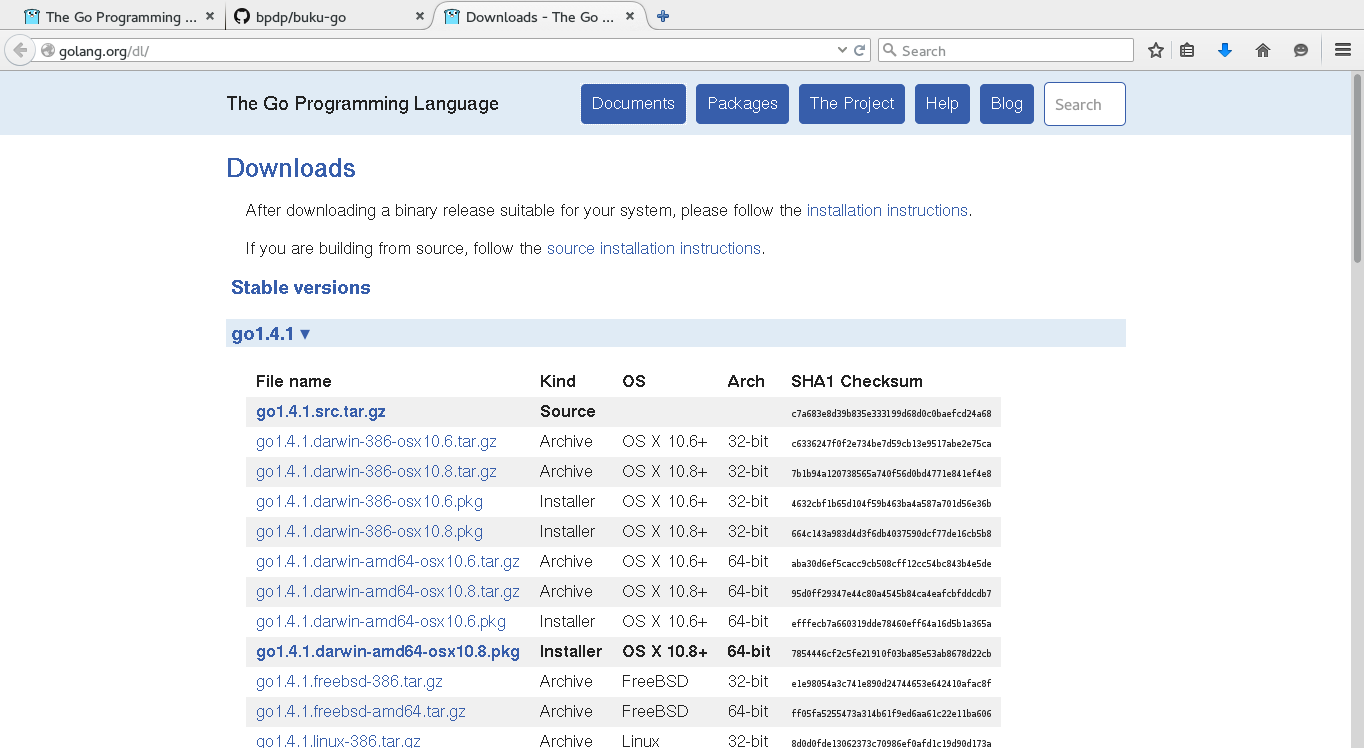
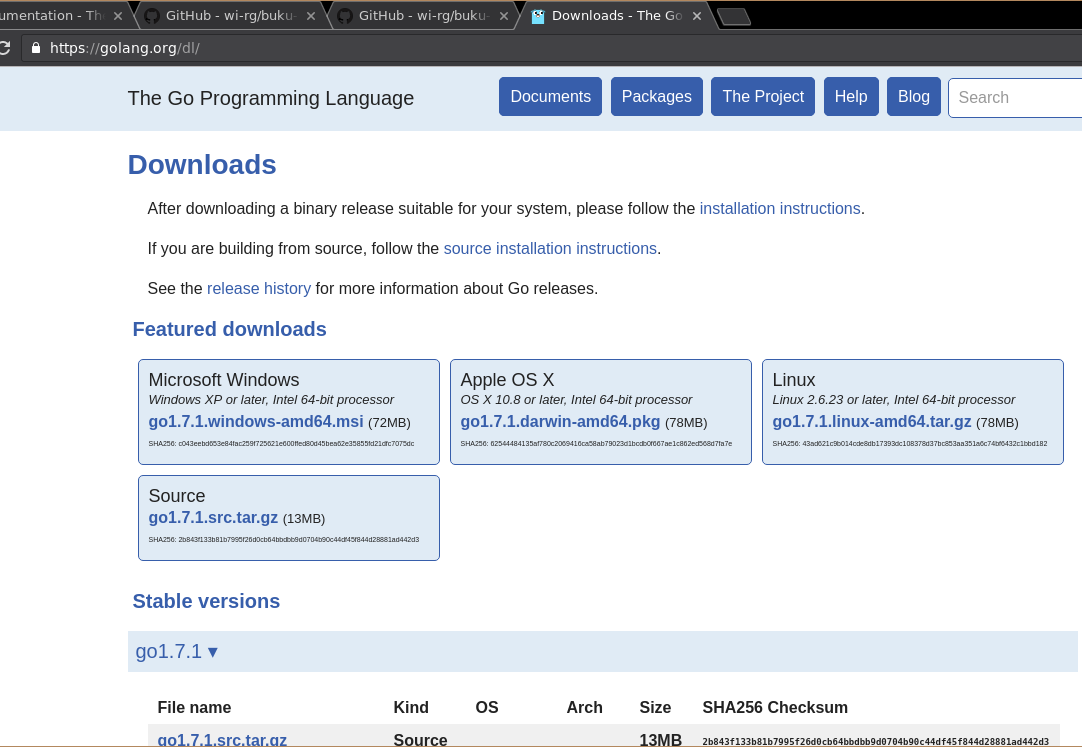
Diubah ke versi 1.7.1

diff --git a/bab-01.md b/bab-01.md
@@ -14,7 +14,7 @@ Go didistribusikan dengan menggunakan lisensi modifikasi dari BSD. Lisensi lengk
 * boleh memberikan garansi
 * tidak boleh menggunakan merk dagang Go
 * tanpa jaminan dan jika terjadi kerusakan terkait penggunaan software ini maka pemberi lisensi tidak bisa dituntut
-jika mendistribusikan harus mengikutsertakan pemberitahuan hak cipta.
+* jika mendistribusikan harus mengikutsertakan pemberitahuan hak cipta.
 
 ## Instalasi Go
 
@@ -24,74 +24,92 @@ Go tersedia pada berbagai platform. Proyek Go sendiri secara resmi mendukung pla
 
 ![Repository downloads Go](images/download-go.png)
 
-Dengan dukungan tersebut, Proyek Go akan menerima laporan `bugs` terkait dengan distribusi pada berbagai platform tersebut. Meski demikian, bukan berarti platform-platform lain tidak bisa menggunakan Go karena distribusi dalam bentuk kode sumber tersedia dan telah berhasil dikompilasi ke berbagai platform: NetBSD, OpenBSD, DragonFlyBSD, dan lain-lain. Informasi mengenai platform-platform yang mungkin bisa digunakan oleh Go bisa diperoleh di [Wiki](https://code.google.com/p/go-wiki/w/list).
+Dengan dukungan tersebut, Proyek Go akan menerima laporan `bugs` terkait dengan distribusi pada berbagai platform tersebut. Meski demikian, bukan berarti platform-platform lain tidak bisa menggunakan Go karena distribusi dalam bentuk kode sumber tersedia dan telah berhasil dikompilasi ke berbagai platform: NetBSD, OpenBSD, DragonFlyBSD, dan lain-lain. Informasi mengenai platform-platform yang mungkin bisa digunakan oleh Go bisa diperoleh di [Wiki](https://github.com/golang/go/wiki#platform-specific-information).
 
 ### Download dan Install Go
 
 ~~~
 Catatan:
 
-Go akan diinstall di direktori $HOME/software/go-dev-tools/go/goVERSI
+Go akan diinstall di direktori /opt/software/go-dev-tools/go/goVERSI
 
-VERSI = versi dari Go yang akan diinstall, misalnya go1.4.1
-Lokasi instalasi tersebut saya gunakan karena saya mempunyai lebih dari 1 versi Go, jika nanti ada versi lainnya, versi lain tersebut akan saya install (misal versi 1.5) di $HOME/software/go-dev-tools/go/go1.5
+VERSI = versi dari Go yang akan diinstall, misalnya go1.7.1
+Lokasi instalasi tersebut saya gunakan karena saya mempunyai lebih dari 1 versi Go, jika nanti ada versi lainnya, versi lain tersebut akan saya install (misal versi 1.6.3) di /opt/software/go-dev-tools/go/go1.6.3
 ~~~
 
-Meski mendukung banyak platform, di buku ini hanya akan dibahas penggunaan Go di platform Linux. Pada dasarnya peranti pengembang yang disediakan sama. Silahkan menyesuaikan dengan platform yang anda gunakan. Untuk instalasi berikut ini, ambil distribusi yang sesuai dengan platform di komputer anda. Untuk pembahasan ini, digunakan `go1.4.1.linux-386.tar.gz`. Setelah itu, ikuti langkah-langkah berikut:
+Meski mendukung banyak platform, di buku ini hanya akan dibahas penggunaan Go di platform Linux. Pada dasarnya peranti pengembang yang disediakan sama. Silahkan menyesuaikan dengan platform yang anda gunakan. Untuk instalasi berikut ini, ambil distribusi yang sesuai dengan platform di komputer anda. Untuk pembahasan ini, digunakan `go1.7.1.linux-amd64.tar.gz`. Setelah itu, ikuti langkah-langkah berikut:
 
 ~~~bash
-$ pwd
-/home/bpdp/master/go
-$ ls
-total 51144
-drwxr-xr-x  12 bpdp bpdp     4096 Jan 16 09:12 .
-drwxr-xr-x 100 bpdp bpdp     4096 Jan 20 09:02 ..
--rw-r--r--   1 bpdp bpdp 52313284 Jan 16 07:41 go1.4.1.linux-386.tar.gz
+ls ~/master/go/1.7/
+total 79708
+drwxr-xr-x 1 bpdp users       52 Sep  8 10:15 .
+drwxr-xr-x 1 bpdp users      198 Jun 13 13:17 ..
+-rw-r--r-- 1 bpdp users 81618401 Sep  8 10:14 go1.7.1.linux-amd64.tar.gz
 ...
 ...
-$ mkdir ~/software/go-dev-tools/
-$ cd ~/software/go-dev-tools
-$ tar -xzvf ~/master/go/go1.4.1.linux-386.tar.gz
+$ mkdir -p /opt/software/go-dev-tools/go
+$ cd /opt/software/go-dev-tools/go
+$ tar -xvf ~/master/go/1.7/go1.7.1.linux-amd64.tar.gz
+$ mv go go1.7.1
 ~~~
 
-Setelah menjalankan langkah-langkah di atas, Go sudah terinstall di direktori `$HOME/software/go-dev-tools/go`
+Setelah menjalankan langkah-langkah di atas, Go sudah terinstall di direktori `/opt/software/go-dev-tools/go/go1.7.1`
 
 ### Konfigurasi Variabel Lingkungan Sistem Operasi
 
-Go menggunakan beberapa variabel lingkungan sistem operasi. Supaya berfungsi dengan baik, tetapkan nilai-nilai variabel lingkungan tersebut di file inisialisasi shell (penulis menggunakan Bash, sehingga file-file inisialisasi diletakkan di `$HOME/.bashrc`). Isikan baris-baris berikut di `$HOME/.bashrc`:
+Go menggunakan beberapa variabel lingkungan sistem operasi. Supaya berfungsi dengan baik, tetapkan nilai-nilai variabel lingkungan tersebut di file inisialisasi shell (penulis menggunakan Bash, sehingga file-file inisialisasi diletakkan di `$HOME/.bashrc`). Meski bisa diletakkan pada file tersebut, penulis menyarankan untuk meletakkan pada suatu file text biasa dan kemudian di - *source*. Pada bagian ini, penulis akan meletakkan di file `%HOME/env/go/go1.7.1`.
 
 ~~~bash
-...
-...
-GO_HOME=$HOME/software/go
+GODEVTOOLS_HOME=/opt/software/go-dev-tools
+
+GO_HOME=$GODEVTOOLS_HOME/go/go1.7.1
+LITEIDE_HOME=$GODEVTOOLS_HOME/liteide
+GOTOOLS=$GODEVTOOLS_HOME/workspace/go17/bin
+GO3RDPARTYTOOLS=$GODEVTOOLS_HOME/go-3rd-party-tools
 
 export GOROOT=$GO_HOME
-export GOOS=linux 
-export GOARCH=386 
-export GOHOSTOS=linux 
-export GOHOSTARCH=386
-export GOBIN=$GOROOT/bin
+export GOOS=linux
+export GOARCH=amd64
+export GOHOSTOS=linux
+export GOHOSTARCH=amd64
 
-export PATH=$PATH:$GO_HOME/bin
+# https://golang.org/cmd/go/#hdr-GOPATH_environment_variable
+# a)    If you don't set your GOBIN env variable, 
+#       you get the Go compiler binaries going in 
+#       GOROOT/bin whereas the your binaries are going 
+#       in GOPATH/bin. (I personally like this separation of 
+#       binaries.)
+# (b)   If you set your GOBIN to anything, then both the Go 
+#       binaries and your binaries are going to GOBIN.
+#export GOBIN=$GOROOT/bin
+
+export PATH=$PATH:$GO_HOME/bin:$LITEIDE_HOME/bin:$GOTOOLS:$GO3RDPARTYTOOLS/bin
+
+alias godev='cd $GODEVTOOLS_HOME/workspace/go17'
 ~~~
 
-Dengan memasukkan beberapa variabel lingkungan tersebut ke `.bashrc`, Go bisa digunakan. Untuk melihat hasil, login ke shell, setelah itu eksekusi perintah `go env`, hasilnya seharusnya adalah sebagai berikut:
+Dengan memasukkan beberapa variabel lingkungan tersebut ke file, saat kita ingin menggunakan Go, tinggal di - *source* sebagai berikut:
+
+~~~bash
+$ source ~/env/go/go1.7.1
+~~~
+
+Setelah itu, Go bisa digunakan. Untuk melihat hasil, eksekusi perintah `go env`, hasilnya seharusnya adalah sebagai berikut:
 
 ~~~bash
 $ go env
-GOARCH="386"
-GOBIN="/home/bpdp/software/go-dev-tools/go/bin"
-GOCHAR="8"
+GOARCH="amd64"
+GOBIN=""
 GOEXE=""
-GOHOSTARCH="386"
+GOHOSTARCH="amd64"
 GOHOSTOS="linux"
 GOOS="linux"
 GOPATH=""
 GORACE=""
-GOROOT="/home/bpdp/software/go"
-GOTOOLDIR="/home/bpdp/software/go-dev-tools/go/pkg/tool/linux_386"
+GOROOT="/opt/software/go-dev-tools/go/go1.7.1"
+GOTOOLDIR="/opt/software/go-dev-tools/go/go1.7.1/pkg/tool/linux_amd64"
 CC="gcc"
-GOGCCFLAGS="-fPIC -m32 -pthread -fmessage-length=0"
+GOGCCFLAGS="-fPIC -m64 -pthread -fmessage-length=0 -fdebug-prefix-map=/tmp/go-build947764430=/tmp/go-build -gno-record-gcc-switches"
 CXX="g++"
 CGO_ENABLED="1"
 $
@@ -117,34 +135,38 @@ func main() {
 Berikut ini adalah langkah-langkah untuk mengeksekusi `hello.go`:
 
 ~~~bash
-$ ls
-total 12
-drwxr-xr-x 2 bpdp bpdp 4096 Apr  2  2013 .
-drwxr-xr-x 4 bpdp bpdp 4096 Apr  9  2013 ..
--rw-r--r-- 1 bpdp bpdp   74 Mar 30  2013 hello.go
 $ go run hello.go 
 hello, world
-$ go build hello.go 
+$ go build hello.go
 $ ls -la
-total 1456
-drwxr-xr-x 2 bpdp bpdp    4096 Dec  6 16:31 .
-drwxr-xr-x 4 bpdp bpdp    4096 Apr  9  2013 ..
--rwxr-xr-x 1 bpdp bpdp 1476376 Dec  6 16:31 hello
--rw-r--r-- 1 bpdp bpdp      74 Mar 30  2013 hello.go
+total 1624
+drwxr-xr-x 1 bpdp users     102 Sep 12 21:20 .
+drwxr-xr-x 1 bpdp users     288 Aug 15 11:24 ..
+-rwxr-xr-x 1 bpdp users 1650350 Sep 12 21:20 hello
+-rw-r--r-- 1 bpdp users     162 Aug 15 11:28 hello-formatted.go
+-rw-r--r-- 1 bpdp users      86 Aug 15 11:26 hello.go
+-rw-r--r-- 1 bpdp users     170 Aug 15 11:28 hello-unformatted.go
 $ ./hello 
 hello, world
 $ file hello
-hello: ELF 32-bit LSB executable, Intel 80386, version 1 (SYSV), statically linked, not stripped
+hello: ELF 64-bit LSB executable, x86-64, version 1 (SYSV), statically linked, not stripped
 $
 ~~~
 
 ## Memahami Lingkungan Peranti Pengembangan Go
 
-Saat menginstall Go, kita akan memperoleh 4 buah file `binary executable`:
+Saat menginstall Go, kita akan memperoleh 3 buah file `binary executable`:
 
-* go
-* godoc
-* gofmt
+~~~bash
+$ ls /opt/software/go-dev-tools/go/go1.7.1/bin/
+total 27496
+drwxr-xr-x 1 bpdp users       24 Sep  8 02:38 .
+drwxr-xr-x 1 bpdp users      230 Sep  8 02:38 ..
+-rwxr-xr-x 1 bpdp users  9954032 Sep  8 02:35 go
+-rwxr-xr-x 1 bpdp users 15156929 Sep  8 02:37 godoc
+-rwxr-xr-x 1 bpdp users  3036195 Sep  8 02:35 gofmt
+$
+~~~
 
 Penjelasan untuk masing-masing akan diuraikan di sub-sub bab berikut.
 
@@ -162,32 +184,35 @@ Usage:
 
 The commands are:
 
-    build       compile packages and dependencies
-    clean       remove object files
-    env         print Go environment information
-    fix         run go tool fix on packages
-    fmt         run gofmt on package sources
-    generate    generate Go files by processing source
-    get         download and install packages and dependencies
-    install     compile and install packages and dependencies
-    list        list packages
-    run         compile and run Go program
-    test        test packages
-    tool        run specified go tool
-    version     print Go version
-    vet         run go tool vet on packages
+	build       compile packages and dependencies
+	clean       remove object files
+	doc         show documentation for package or symbol
+	env         print Go environment information
+	fix         run go tool fix on packages
+	fmt         run gofmt on package sources
+	generate    generate Go files by processing source
+	get         download and install packages and dependencies
+	install     compile and install packages and dependencies
+	list        list packages
+	run         compile and run Go program
+	test        test packages
+	tool        run specified go tool
+	version     print Go version
+	vet         run go tool vet on packages
 
 Use "go help [command]" for more information about a command.
 
 Additional help topics:
 
-    c           calling between Go and C
-    filetype    file types
-    gopath      GOPATH environment variable
-    importpath  import path syntax
-    packages    description of package lists
-    testflag    description of testing flags
-    testfunc    description of testing functions
+	c           calling between Go and C
+	buildmode   description of build modes
+	filetype    file types
+	gopath      GOPATH environment variable
+	environment environment variables
+	importpath  import path syntax
+	packages    description of package lists
+	testflag    description of testing flags
+	testfunc    description of testing functions
 
 Use "go help [topic]" for more information about that topic.
 ~~~
@@ -200,29 +225,52 @@ Use "go help [topic]" for more information about that topic.
 $ godoc 
 usage: godoc package [name ...]
 	godoc -http=:6060
-  -analysis="": comma-separated list of analyses to perform (supported: type, pointer). See http://golang.org/lib/godoc/analysis/help.html
-  -ex=false: show examples in command line mode
-  -goroot="/home/bpdp/software/go-dev-tools/go/go1.4.1": Go root directory
-  -html=false: print HTML in command-line mode
-  -http="": HTTP service address (e.g., ':6060')
-  -httptest.serve="": if non-empty, httptest.NewServer serves on this address and blocks
-  -index=false: enable search index
-  -index_files="": glob pattern specifying index files;if not empty, the index is read from these files in sorted order
-  -index_throttle=0.75: index throttle value; 0.0 = no time allocated, 1.0 = full throttle
-  -links=true: link identifiers to their declarations
-  -maxresults=10000: maximum number of full text search results shown
-  -notes="BUG": regular expression matching note markers to show
-  -play=false: enable playground in web interface
-  -q=false: arguments are considered search queries
-  -server="": webserver address for command line searches
-  -src=false: print (exported) source in command-line mode
-  -tabwidth=4: tab width
-  -templates="": directory containing alternate template files
-  -timestamps=false: show timestamps with directory listings
-  -url="": print HTML for named URL
-  -v=false: verbose mode
-  -write_index=false: write index to a file; the file name must be specified with -index_files
-  -zip="": zip file providing the file system to serve; disabled if empty
+  -analysis string
+    	comma-separated list of analyses to perform (supported: type, pointer). See http://golang.org/lib/godoc/analysis/help.html
+  -ex
+    	show examples in command line mode
+  -goroot string
+    	Go root directory (default "/opt/software/go-dev-tools/go/go1.7.1")
+  -html
+    	print HTML in command-line mode
+  -http string
+    	HTTP service address (e.g., ':6060')
+  -httptest.serve string
+    	if non-empty, httptest.NewServer serves on this address and blocks
+  -index
+    	enable search index
+  -index_files string
+    	glob pattern specifying index files; if not empty, the index is read from these files in sorted order
+  -index_interval duration
+    	interval of indexing; 0 for default (5m), negative to only index once at startup
+  -index_throttle float
+    	index throttle value; 0.0 = no time allocated, 1.0 = full throttle (default 0.75)
+  -links
+    	link identifiers to their declarations (default true)
+  -maxresults int
+    	maximum number of full text search results shown (default 10000)
+  -notes string
+    	regular expression matching note markers to show (default "BUG")
+  -play
+    	enable playground in web interface
+  -q	arguments are considered search queries
+  -server string
+    	webserver address for command line searches
+  -src
+    	print (exported) source in command-line mode
+  -tabwidth int
+    	tab width (default 4)
+  -templates string
+    	directory containing alternate template files
+  -timestamps
+    	show timestamps with directory listings
+  -url string
+    	print HTML for named URL
+  -v	verbose mode
+  -write_index
+    	write index to a file; the file name must be specified with -index_files
+  -zip string
+    	zip file providing the file system to serve; disabled if empty
 ~~~
 
 ### gofmt
@@ -232,13 +280,15 @@ usage: godoc package [name ...]
 ~~~bash
 $ gofmt --help
 usage: gofmt [flags] [path ...]
-  -cpuprofile="": write cpu profile to this file
-  -d=false: display diffs instead of rewriting files
-  -e=false: report all errors (not just the first 10 on different lines)
-  -l=false: list files whose formatting differs from gofmt's
-  -r="": rewrite rule (e.g., 'a[b:len(a)] -> a[b:]')
-  -s=false: simplify code
-  -w=false: write result to (source) file instead of stdout
+  -cpuprofile string
+    	write cpu profile to this file
+  -d	display diffs instead of rewriting files
+  -e	report all errors (not just the first 10 on different lines)
+  -l	list files whose formatting differs from gofmt's
+  -r string
+    	rewrite rule (e.g., 'a[b:len(a)] -> a[b:]')
+  -s	simplify code
+  -w	write result to (source) file instead of stdout
 ~~~
 
 Untuk melihat bagaimana `gofmt` bisa digunakan untuk membantu memformat kode sumber, buat kode sumber sederhana berikut ini:
